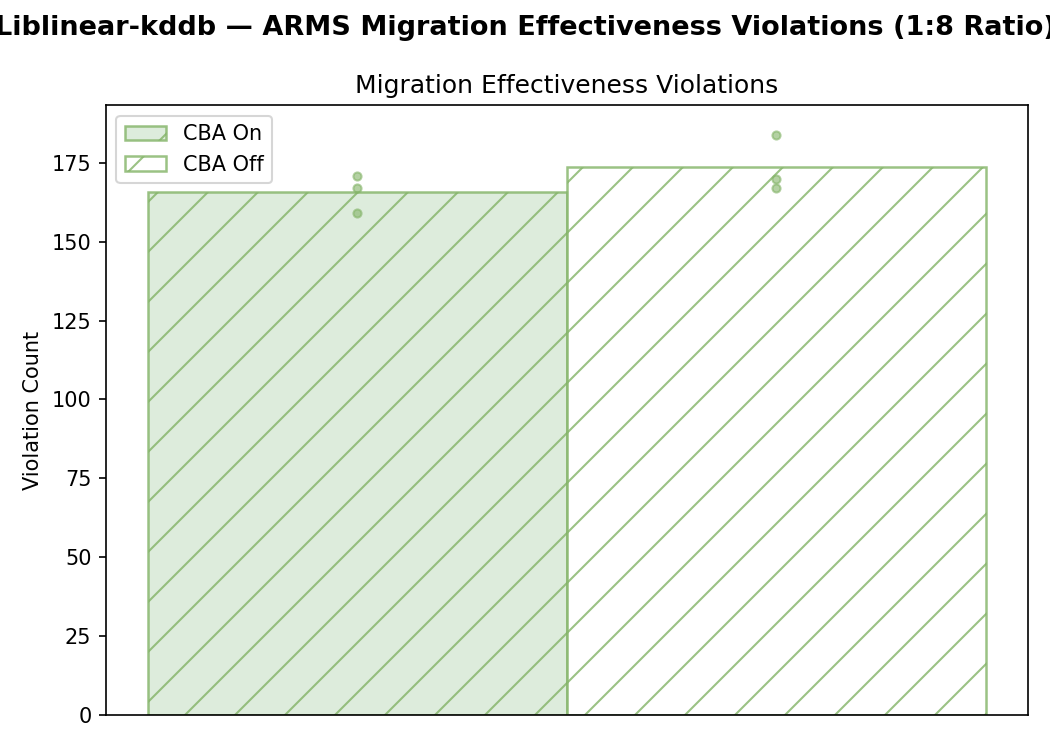
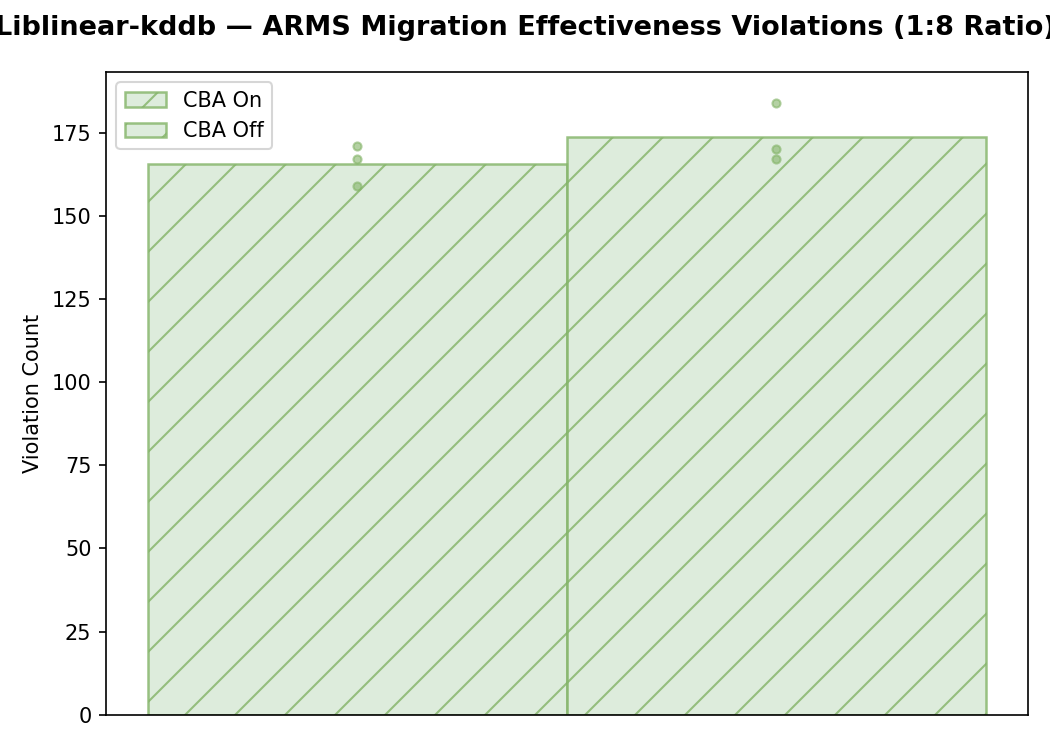
Clean up plot violations

diff --git a/results/guardrail_analysis/plot_violations.py b/results/guardrail_analysis/plot_violations.py
@@ -1,7 +1,5 @@
 #!/usr/bin/env python3
-import os
-import re
-import sys
+import os, re, sys
 import matplotlib
 matplotlib.use('Agg')
 import matplotlib.pyplot as plt
@@ -13,174 +11,126 @@ WORKLOADS = [
     ("xsbench",            "XSBench"),
     ("gapbs_bc_twitter",   "GapBS-BC (Twitter)"),
     ("silo_tpcc",          "Silo-TPCC"),
-    ("liblinear_kddb",     "Liblinear-kddb")11,
+    ("liblinear_kddb",     "Liblinear-kddb"),
     ("gapbs_pr_twitter",   "GapBS-PR (Twitter)"),
 ]
 
 RATIOS = ["2-1", "1-1", "1-2", "1-4", "1-8", "1-16"]
 CBA_MODES = ["cba_on", "cba_off"]
 
-# Single color for all workloads (only one baseline: ARMS)
 COLOR = "#D5E8D4"
 EDGE_COLOR = "#82B366"
 HATCH = "/"
 MARKER = "o"
 
 def extract_violations(filepath):
-    """Extract mig_eff violation count from a log file."""
     mig_eff = None
     with open(filepath, 'r') as f:
         for line in f:
             m = re.search(r'mig_eff.*violations:\[(\d+)\]', line)
             if m:
                 mig_eff = int(m.group(1))
+    # finds the last match to the regex
     return mig_eff
 
 def collect_results():
-    """Collect results from all subdirectories, keyed by (workload, ratio, cba_mode)."""
     results = {}
     for workload, _ in WORKLOADS:
         for ratio in RATIOS:
             for cba in CBA_MODES:
                 prefix = f"{workload}_{ratio}_{cba}"
-                mig_effs = []
-                # Search in all subdirectories
+                vals = []
                 for dirpath, _, filenames in os.walk(RESULTS_DIR):
                     for run in range(1, 20):
                         fname = f"{prefix}_run{run}.txt"
                         if fname in filenames:
-                            filepath = os.path.join(dirpath, fname)
-                            me = extract_violations(filepath)
-                            if me is not None:
-                                mig_effs.append(me)
-                if mig_effs:
-                    results[(workload, ratio, cba)] = {
-                        'mig_eff': mig_effs,
-                    }
+                            v = extract_violations(os.path.join(dirpath, fname))
+                            if v is not None:
+                                vals.append(v)
+                if vals:
+                    results[(workload, ratio, cba)] = vals
     return results
 
 def plot_1_8_comparison(results):
-    """Bar chart comparing all workloads at 1:8 ratio, CBA on vs off."""
-    configs = []
-    for workload, label in WORKLOADS:
+    labels, vals_list = [], []
+    for workload, wl_label in WORKLOADS:
         for cba in CBA_MODES:
             key = (workload, "1-8", cba)
             if key in results:
                 cba_label = "CBA On" if cba == "cba_on" else "CBA Off"
-                configs.append((f"{label}\n{cba_label}", key, workload))
+                labels.append(f"{wl_label}\n{cba_label}")
+                vals_list.append(results[key])
 
-    if not configs:
-        print("No 1:8 data found, skipping 1:8 comparison plot.")
+    if not labels:
         return
 
-    labels = [c[0] for c in configs]
-    n = len(labels)
-    x = np.arange(n)
-    width = 0.35
+    x = np.arange(len(labels))
+    fig, ax = plt.subplots(figsize=(max(10, len(labels) * 1.5), 5))
 
-    fig, ax = plt.subplots(figsize=(max(10, n * 1.5), 5))
-
-    means = []
-    all_vals = []
-    for _, key, _ in configs:
-        vals = results[key]['mig_eff'] if key in results and results[key]['mig_eff'] else []
-        means.append(np.mean(vals) if vals else 0)
-        all_vals.append(vals)
-
-    for i in range(n):
-        ax.bar(x[i], means[i], width,
-               color=COLOR, edgecolor=EDGE_COLOR,
-               hatch=HATCH, linewidth=1.2)
-    ax.set_ylabel('Violation Count')
-    ax.set_title('Migration Effectiveness Violations')
-    ax.set_xticks(x)
-    ax.set_xticklabels(labels, fontsize=7)
-
-    for i, vals in enumerate(all_vals):
+    for i, vals in enumerate(vals_list):
+        ax.bar(x[i], np.mean(vals), 0.35,
+               color=COLOR, edgecolor=EDGE_COLOR, hatch=HATCH, linewidth=1.2)
         ax.scatter([i] * len(vals), vals, color=EDGE_COLOR,
                    marker=MARKER, zorder=5, s=20, alpha=0.7)
 
+    ax.set_ylabel('Violation Count')
+    ax.set_xticks(x)
+    ax.set_xticklabels(labels, fontsize=7)
     fig.suptitle('ARMS Migration Effectiveness Violations (1:8 Ratio)', fontsize=13, fontweight='bold')
     plt.tight_layout()
-
-    outpath = os.path.join(RESULTS_DIR, 'violations_plot.png')
-    plt.savefig(outpath, dpi=150)
-    print(f"Plot saved to: {outpath}")
+    plt.savefig(os.path.join(RESULTS_DIR, 'violations_plot.png'), dpi=150)
 
 def plot_by_workload(results, workload, workload_label):
-    """Plot mig_eff violations across ratios for a single workload."""
-    # XSBench and GapBS-BC: only plot 1:8 ratio
+    # xsbench and gapbs_bc want only 1:8 data, other workloads only have 1:8 data
     if workload in ("xsbench", "gapbs_bc_twitter"):
         candidate_ratios = ["1-8"]
     else:
         candidate_ratios = RATIOS
 
-    ratios_with_data = [r for r in candidate_ratios
-                        if (workload, r, 'cba_on') in results
-                        or (workload, r, 'cba_off') in results]
-
-    if not ratios_with_data:
-        print(f"No data for {workload_label}, skipping ratio plot.")
+    ratios = [r for r in candidate_ratios
+              if (workload, r, 'cba_on') in results
+              or (workload, r, 'cba_off') in results]
+    if not ratios:
         return
 
-    fig, ax = plt.subplots(figsize=(max(7, len(ratios_with_data) * 2), 5))
-    x = np.arange(len(ratios_with_data))
+    x = np.arange(len(ratios))
     width = 0.35
+    fig, ax = plt.subplots(figsize=(max(7, len(ratios) * 2), 5))
 
-    for j, (cba, label) in enumerate([
-        ('cba_on', 'CBA On'),
-        ('cba_off', 'CBA Off'),
-    ]):
-        means = []
-        all_vals = []
-        for ratio in ratios_with_data:
+    for j, (cba, label) in enumerate([('cba_on', 'CBA On'), ('cba_off', 'CBA Off')]):
+        means, all_vals = [], []
+        for ratio in ratios:
             key = (workload, ratio, cba)
-            if key in results and results[key]['mig_eff']:
-                vals = results[key]['mig_eff']
-                means.append(np.mean(vals))
-                all_vals.append(vals)
-            else:
-                means.append(0)
-                all_vals.append([])
+            vals = results.get(key, [])
+            means.append(np.mean(vals) if vals else 0)
+            all_vals.append(vals)
 
         offset = -width/2 + j * width
-        if cba == 'cba_on':
-            ax.bar(x + offset, means, width,
-                   color=COLOR, edgecolor=EDGE_COLOR,
-                   hatch=HATCH, linewidth=1.2, label=label, alpha=0.8)
-        else:
-            ax.bar(x + offset, means, width,
-                   color='white', edgecolor=EDGE_COLOR,
-                   hatch=HATCH, linewidth=1.2, label=label, alpha=0.8)
+        ax.bar(x + offset, means, width,
+               color=COLOR, edgecolor=EDGE_COLOR,
+               hatch=HATCH, linewidth=1.2, label=label, alpha=0.8)
 
         for i, vals in enumerate(all_vals):
             if vals:
                 ax.scatter([x[i] + offset] * len(vals), vals,
-                         color=EDGE_COLOR, marker=MARKER,
-                         zorder=5, s=15, alpha=0.6)
+                         color=EDGE_COLOR, marker=MARKER, zorder=5, s=15, alpha=0.6)
 
     ax.set_ylabel('Violation Count')
-    ax.set_title('Migration Effectiveness Violations')
-    if len(ratios_with_data) > 1:
+    if len(ratios) > 1:
         ax.set_xticks(x)
-        ax.set_xticklabels([r.replace('-', ':') for r in ratios_with_data])
+        ax.set_xticklabels([r.replace('-', ':') for r in ratios])
         ax.set_xlabel('DRAM:NVM Ratio')
     else:
         ax.set_xticks([])
     ax.legend()
-
     fig.suptitle(f'{workload_label} — ARMS Migration Effectiveness Violations (1:8 Ratio)',
                  fontsize=13, fontweight='bold')
     plt.tight_layout()
-
-    outpath = os.path.join(RESULTS_DIR, f'violations_{workload}.png')
-    plt.savefig(outpath, dpi=150)
-    print(f"Plot saved to: {outpath}")
+    plt.savefig(os.path.join(RESULTS_DIR, f'violations_{workload}.png'), dpi=150)
 
 def print_summary(results):
-    print("\n=== Summary Table ===")
-    print(f"{'Workload':<20} {'Ratio':<8} {'CBA':<8} "
-          f"{'Mig Eff (mean +/- std)':<28}")
+    print("\n=== Summary ===")
+    print(f"{'Workload':<20} {'Ratio':<8} {'CBA':<8} {'Mig Eff (mean +/- std)':<28}")
     print("-" * 64)
     for workload, wl_label in WORKLOADS:
         for ratio in RATIOS:
@@ -188,22 +138,17 @@ def print_summary(results):
                 key = (workload, ratio, cba)
                 if key not in results:
                     continue
-                r = results[key]
-                me = r['mig_eff']
-                me_str = f"{np.mean(me):.1f} +/- {np.std(me):.1f} (n={len(me)})" if me else "N/A"
-                print(f"{wl_label:<20} {ratio:<8} {cba:<8} {me_str:<28}")
+                vals = results[key]
+                print(f"{wl_label:<20} {ratio:<8} {cba:<8} "
+                      f"{np.mean(vals):.1f} +/- {np.std(vals):.1f} (n={len(vals)})")
 
 if __name__ == '__main__':
     results = collect_results()
     if not results:
-        print("No result files found. Run experiments first.")
+        print("No result files found.")
         sys.exit(1)
 
-    # 1:8 comparison across all workloads
     plot_1_8_comparison(results)
-
-    # Per-workload ratio plots (only if multiple ratios exist)
     for workload, label in WORKLOADS:
         plot_by_workload(results, workload, label)
-
     print_summary(results)

diff --git a/src/pebs.c b/src/pebs.c
@@ -788,7 +788,7 @@ static inline int continue_migration(struct arms_page *hp, struct arms_page *cp)
   if (hot_page_min_avg < cold_page_max_avg) {
     LOG_INFO("Stopping migration of 0x%lx (score: %.3f (%.3f %.3f)) and 0x%lx (score: %.3f (%.3f %.3f)) cause of min/max\n",
               hp->va, hp->score, hp->w[0], hp->w[1],
-              cp->va, cp->score, cp->w[0], cp->w[1]);
+              cp->va, cp->score, cp->w[0], ƒcp->w[1]);
     return 0;
   }
 
